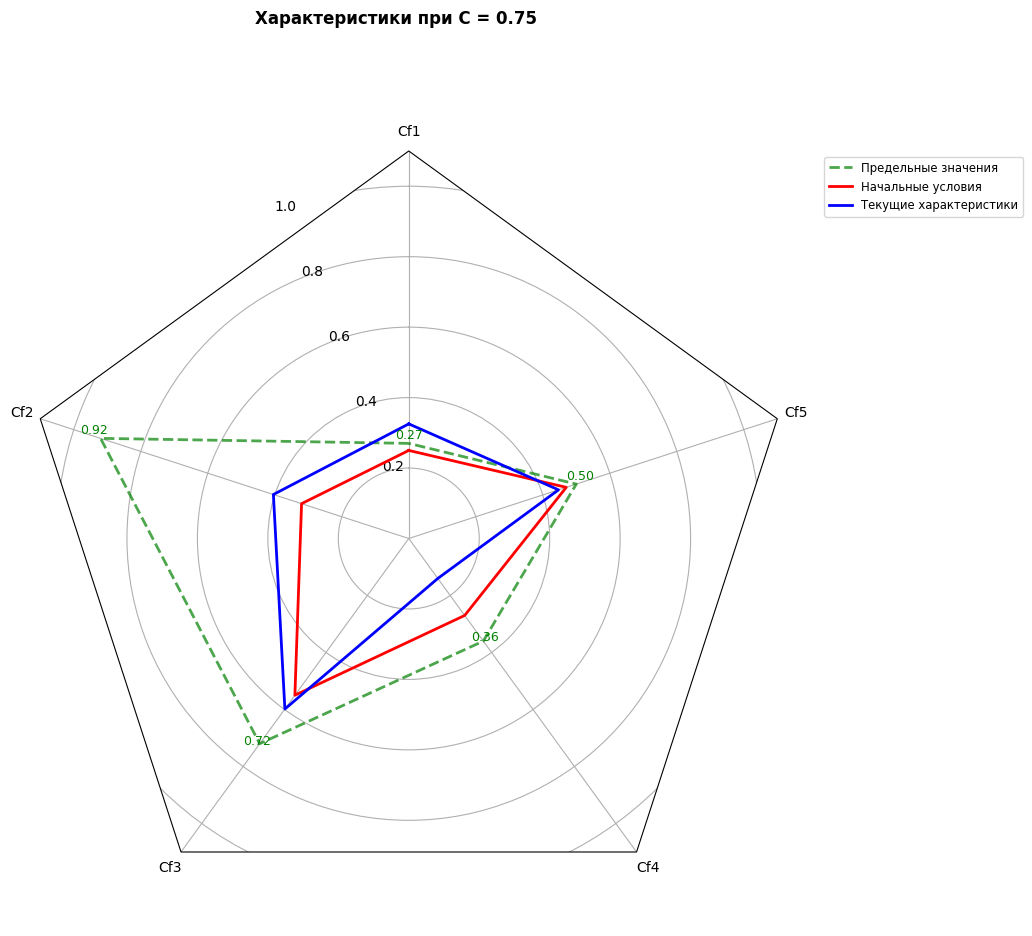
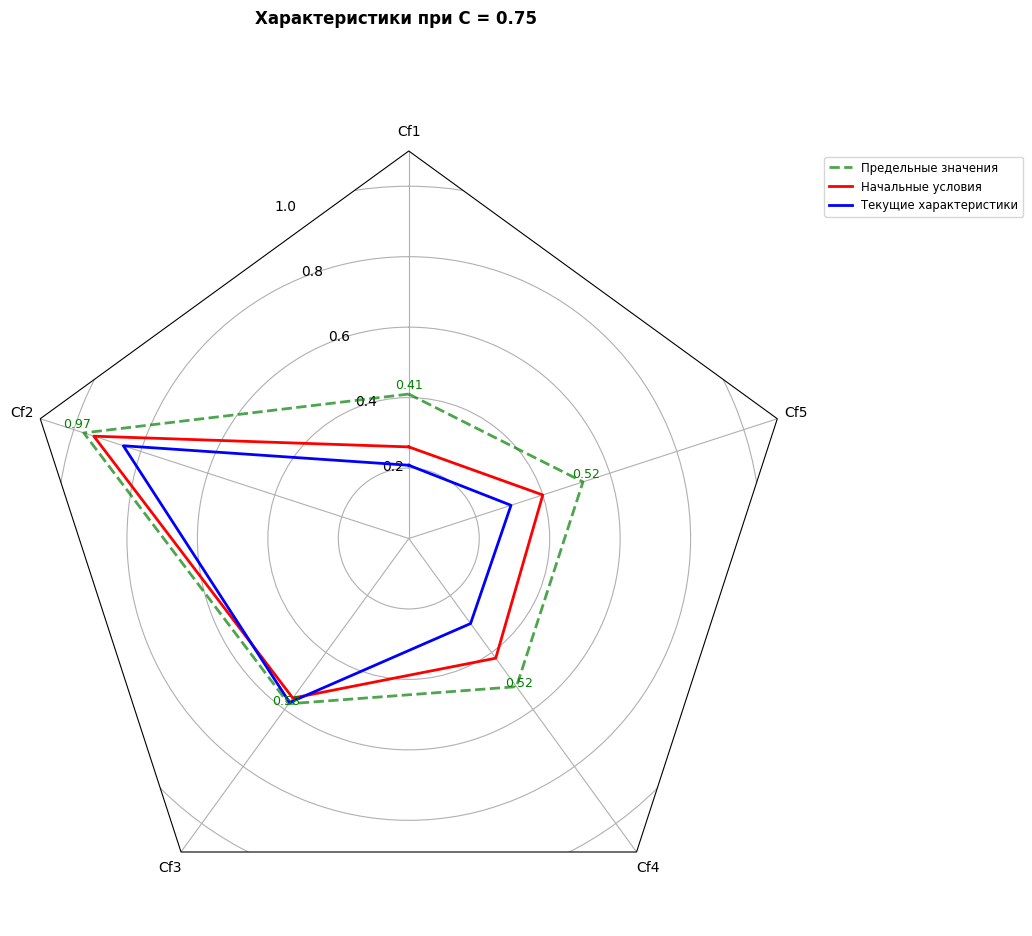
Обновлены функции для уменьшения нормализации графиков

Changed region(s): [[0.062, 0.4028, 0.5891, 0.8056]]

diff --git a/functions.py b/functions.py
@@ -1,19 +1,20 @@
 import numpy as np
-def pend(x, C, faks, f, xm, t=0.0, power=0.55):
+
+def pend(x, C, faks, f, xm, t=0.0, power=0.8):  # Увеличен power для меньшего сжатия
     """
     Система дифференциальных уравнений для модели потерь от загрязнения атмосферы
-    x = [Cf1, Cf2, Cf3, Cf4, Cf5] - характеристики 
-    C - концентрация загрязняющих веществ 
+    x = [Cf1, Cf2, Cf3, Cf4, Cf5] - характеристики
+    C - концентрация загрязняющих веществ
     t - время (для возмущений x1-x6)
-    faks - матрица коэффициентов возмущений [14 x 2] й
+    faks - матрица коэффициентов возмущений [14 x 2]
     f - матрица коэффициентов внутренних функций [12 x ...]
     xm - масштабирующие коэффициенты (максимальные значения/пределы)
-    power - степень для нормализации 
+    power - степень для нормализации (увеличена для меньшего сжатия)
     """
     eps = 1e-4
     x_safe = np.clip(x, eps, 1.0 - eps)
-
-    def normalize_value(value, max_possible=10.0):
+    
+    def normalize_value(value, max_possible=5.0):  # Уменьшен max_possible
         return max(0.0, min(1.0, value / max_possible))
     
     # === ВОЗМУЩЕНИЯ x1-x6 (зависят от времени t) ===
@@ -91,16 +92,15 @@ def pend(x, C, faks, f, xm, t=0.0, power=0.55):
         x14 = 0.0
     
     # === ВНУТРЕННИЕ ФУНКЦИИ ===
- 
     # f₁: логистическая (2 параметра)
     if len(f) > 0 and len(f[0]) >= 2:
-        f1 = f1_cf3_norm(x_safe[2], f[0][0], f[0][1]) 
+        f1 = f1_cf3_norm(x_safe[2], f[0][0], f[0][1])
     else:
         f1 = f1_cf3_default_norm(x_safe[2])
     
     # f₂: линейная (2 параметра)
     if len(f) > 1 and len(f[1]) >= 2:
-        f2 = f2_cf4_norm(x_safe[3], f[1][0], f[1][1]) 
+        f2 = f2_cf4_norm(x_safe[3], f[1][0], f[1][1])
     else:
         f2 = f2_cf4_default_norm(x_safe[3])
     
@@ -112,163 +112,157 @@ def pend(x, C, faks, f, xm, t=0.0, power=0.55):
     
     # f₄: линейная (2 параметра)
     if len(f) > 3 and len(f[3]) >= 2:
-        f4 = f4_cf3_norm(x_safe[2], f[3][0], f[3][1]) 
+        f4 = f4_cf3_norm(x_safe[2], f[3][0], f[3][1])
     else:
         f4 = f4_cf3_default_norm(x_safe[2])
     
     # f₅: линейная (2 параметра)
     if len(f) > 4 and len(f[4]) >= 2:
-        f5 = f5_cf4_norm(x_safe[3], f[4][0], f[4][1]) 
+        f5 = f5_cf4_norm(x_safe[3], f[4][0], f[4][1])
     else:
         f5 = f5_cf4_default_norm(x_safe[3])
     
     # f₆: дробная (2 параметра)
     if len(f) > 5 and len(f[5]) >= 2:
-        f6 = f6_cf5_norm(x_safe[4], f[5][0], f[5][1]) 
+        f6 = f6_cf5_norm(x_safe[4], f[5][0], f[5][1])
     else:
         f6 = f6_cf5_default_norm(x_safe[4])
     
     # f₇: дробная (2 параметра)
     if len(f) > 6 and len(f[6]) >= 2:
-        f7 = f7_cf5_norm(x_safe[4], f[6][0], f[6][1])  
+        f7 = f7_cf5_norm(x_safe[4], f[6][0], f[6][1])
     else:
         f7 = f7_cf5_default_norm(x_safe[4])
     
     # f₈: линейная (2 параметра)
     if len(f) > 7 and len(f[7]) >= 2:
-        f8 = f8_cf1_norm(x_safe[0], f[7][0], f[7][1]) 
+        f8 = f8_cf1_norm(x_safe[0], f[7][0], f[7][1])
     else:
         f8 = f8_cf1_default_norm(x_safe[0])
     
-    # f₉: логистическая 
+    # f₉: логистическая
     if len(f) > 8 and len(f[8]) >= 2:
-        f9 = f9_cf2_norm(x_safe[1], f[8][0], f[8][1]) 
+        f9 = f9_cf2_norm(x_safe[1], f[8][0], f[8][1])
     else:
         f9 = f9_cf2_default_norm(x_safe[1])
     
     # f₁₀: линейная (2 параметра)
     if len(f) > 9 and len(f[9]) >= 2:
-        f10 = f10_cf3_norm(x_safe[2], f[9][0], f[9][1])  
+        f10 = f10_cf3_norm(x_safe[2], f[9][0], f[9][1])
     else:
         f10 = f10_cf3_default_norm(x_safe[2])
     
     # f₁₁: дробная (3 параметра)
     if len(f) > 10 and len(f[10]) >= 3:
-        f11 = f11_cf5_norm(x_safe[4], f[10][0], f[10][1], f[10][2]) 
+        f11 = f11_cf5_norm(x_safe[4], f[10][0], f[10][1], f[10][2])
     else:
         f11 = f11_cf5_default_norm(x_safe[4])
     
     # f₁₂: линейная (2 параметра)
     if len(f) > 11 and len(f[11]) >= 2:
-        f12 = f12_cf1_norm(x_safe[0], f[11][0], f[11][1])  
+        f12 = f12_cf1_norm(x_safe[0], f[11][0], f[11][1])
     else:
         f12 = f12_cf1_default_norm(x_safe[0])
     
     # === СИСТЕМА УРАВНЕНИЙ ===
-    
     # Уравнение 1: dCf1/dC (потери от заболеваемости)
     sum_pos = x1 + x4 + x5 + x7 + x8 + x9 + x10 + x11 + x12 + x13
     sum_neg = x2 + x3 + x6 + x14
     
-    # Enhanced normalization using sigmoid for more natural curves
-    def sigmoid_norm(x, scale=1.0, shift=0.0, steepness=5.0):
-        return 1.0 / (1.0 + np.exp(-steepness * (x - shift))) * scale
+    # Упрощенная нормализация с меньшим сжатием
+    def soft_norm(x, divisor=8.0):  # Уменьшен делитель
+        return min(1.0, (x / divisor) ** power)
     
-    # Apply sigmoid normalization with different parameters for positive and negative terms
-    norm_sum_pos = sigmoid_norm(sum_pos, scale=1.0, shift=3.0, steepness=0.3)
-    norm_sum_neg = sigmoid_norm(sum_neg, scale=1.0, shift=1.5, steepness=0.5)
+    # Применяем более мягкую нормализацию
+    norm_sum_pos = soft_norm(sum_pos, divisor=8.0)  # Было 10.0
+    norm_sum_neg = soft_norm(sum_neg, divisor=4.0)  # Было 4.0 (оставил)
     
     dCf1_dC = (1 / xm[0]) * (
-        f1 * f2 * norm_sum_pos -
-        f3 * norm_sum_neg
+        f1 * f2 * norm_sum_pos - f3 * norm_sum_neg
     )
     
     # Уравнение 2: dCf2/dC (потери сельского хозяйства)
     sum_pos2 = x1 + x4 + x9 + x10 + x12
     sum_neg2 = x2 + x3 + x5 + x6
-    # Apply sigmoid normalization for the second set of terms
-    norm_sum_pos2 = sigmoid_norm(sum_pos2, scale=1.0, shift=2.0, steepness=0.4)
-    norm_sum_neg2 = sigmoid_norm(sum_neg2, scale=1.0, shift=1.5, steepness=0.6)
+    
+    norm_sum_pos2 = soft_norm(sum_pos2, divisor=6.0)  # Уменьшен делитель
+    norm_sum_neg2 = soft_norm(sum_neg2, divisor=4.0)
     
     dCf2_dC = (1 / xm[1]) * (
-        f4 * f5 * norm_sum_pos2 -
-        f6 * norm_sum_neg2
+        f4 * f5 * norm_sum_pos2 - f6 * norm_sum_neg2
     )
     
     # Уравнение 3: dCf3/dC (потери от изменения природы)
     sum_pos3 = x1 + x4 + x5 + x7 + x8 + x9 + x10 + x11 + x12
     sum_neg3 = x2 + x3 + x6 + x14
-    # Apply sigmoid normalization for the third set of terms
-    norm_sum_pos3 = sigmoid_norm(sum_pos3, scale=1.0, shift=3.5, steepness=0.35)
-    norm_sum_neg3 = sigmoid_norm(sum_neg3, scale=1.0, shift=1.5, steepness=0.5)
+    
+    norm_sum_pos3 = soft_norm(sum_pos3, divisor=9.0)  # Уменьшен делитель
+    norm_sum_neg3 = soft_norm(sum_neg3, divisor=4.0)
     
     dCf3_dC = (1 / xm[2]) * (
-        norm_sum_pos3 -
-        f7 * norm_sum_neg3
+        norm_sum_pos3 - f7 * norm_sum_neg3
     )
     
     # Уравнение 4: dCf4/dC (потери от ухудшения качества жизни)
     sum_pos4 = x1 + x4 + x5 + x7 + x8 + x9 + x10 + x11 + x12 + x13
     sum_neg4 = x2 + x3 + x6 + x14
-    norm_sum_pos4 = min(1.0, (sum_pos4 / 10.0) ** power)
-    norm_sum_neg4 = min(1.0, (sum_neg4 / 4.0) ** power)
+    
+    norm_sum_pos4 = soft_norm(sum_pos4, divisor=10.0)  # Уменьшен делитель
+    norm_sum_neg4 = soft_norm(sum_neg4, divisor=4.0)
     
     dCf4_dC = (1 / xm[3]) * (
-        f8 * f9 * f10 * norm_sum_pos4 -
-        f11 * norm_sum_neg4
+        f8 * f9 * f10 * norm_sum_pos4 - f11 * norm_sum_neg4
     )
     
     # Уравнение 5: dCf5/dC (потери предприятия)
     sum_pos5 = x1 + x5
     sum_neg5 = x2 + x3 + x4 + x6 + x7 + x8 + x9 + x10 + x13 + x14
-    norm_sum_pos5 = min(1.0, (sum_pos5 / 2.0) ** power)
-    norm_sum_neg5 = min(1.0, (sum_neg5 / 10.0) ** power)
+    
+    norm_sum_pos5 = soft_norm(sum_pos5, divisor=2.5)  # Уменьшен делитель
+    norm_sum_neg5 = soft_norm(sum_neg5, divisor=12.0)  # Увеличен делитель для негативных
     
     dCf5_dC = (1 / xm[4]) * (
-        f12 * norm_sum_pos5 -
-        norm_sum_neg5
+        f12 * norm_sum_pos5 - norm_sum_neg5
     )
     
     dkdt = [dCf1_dC, dCf2_dC, dCf3_dC, dCf4_dC, dCf5_dC]
     
-
+    # Граничные условия
     for i in range(len(dkdt)):
         if x[i] >= xm[i] - eps and dkdt[i] > 0:
-            dkdt[i] = 0.0 
+            dkdt[i] = 0.0
         elif abs(x[i] - xm[i]) < eps and dkdt[i] > 0:
             dkdt[i] = 0.0
     
-
     for i in range(len(dkdt)):
         if x[i] <= eps and dkdt[i] < 0:
             dkdt[i] = 0.0
         if x[i] >= 1.0 - eps and dkdt[i] > 0:
             dkdt[i] = 0.0
-
+    
     return dkdt
 
 def fx_linear(x, params):
     if len(params) >= 2:
         a, b = params[0], params[1]
         value = a * x + b
-        max_possible = abs(a) * 1.0 + abs(b)
+        # Уменьшена нормализация
+        max_possible = abs(a) * 2.0 + abs(b)  # Увеличен множитель
         if max_possible > 0:
             normalized = max(0.0, min(1.0, value / max_possible))
         else:
             normalized = 0.5
-            
         return normalized
     elif len(params) == 1:
         return max(0.0, min(1.0, params[0]))
     else:
         return 0.5
 
-
-
 # f₁(Cf₃) = a·e^{Cf₃} / (1 + b·(e^{Cf₃} - 1))
 def f1_cf3_norm(cf3, a=0.5, b=0.5):
     raw = a * np.exp(cf3) / (1 + b * (np.exp(cf3) - 1))
-    return max(0.0, min(1.0, raw))
+    # Уменьшена нормализация
+    return max(0.0, min(1.0, raw * 1.2))  # Увеличен множитель
 
 def f1_cf3_default_norm(cf3):
     return f1_cf3_norm(cf3, 0.5, 0.5)
@@ -276,7 +270,7 @@ def f1_cf3_default_norm(cf3):
 # f₂(Cf₄) = a·Cf₄ + b
 def f2_cf4_norm(cf4, a=0.3, b=15.0):
     raw = a * cf4 + b
-    denominator = abs(a) + abs(b)
+    denominator = abs(a) * 2.0 + abs(b)  # Увеличен множитель
     if denominator > 0:
         return max(0.0, min(1.0, raw / denominator))
     return 0.5
@@ -297,7 +291,7 @@ def f3_cf5_default_norm(cf5):
 # f₄(Cf₃) = a·Cf₃ + b
 def f4_cf3_norm(cf3, a=0.7, b=11.0):
     raw = a * cf3 + b
-    denominator = abs(a) + abs(b)
+    denominator = abs(a) * 2.0 + abs(b)  # Увеличен множитель
     if denominator > 0:
         return max(0.0, min(1.0, raw / denominator))
     return 0.5
@@ -308,7 +302,7 @@ def f4_cf3_default_norm(cf3):
 # f₅(Cf₄) = a·Cf₄ + b
 def f5_cf4_norm(cf4, a=0.8, b=9.0):
     raw = a * cf4 + b
-    denominator = abs(a) + abs(b)
+    denominator = abs(a) * 2.0 + abs(b)  # Увеличен множитель
     if denominator > 0:
         return max(0.0, min(1.0, raw / denominator))
     return 0.5
@@ -322,7 +316,7 @@ def f6_cf5_norm(cf5, a=0.8, b=12.0):
     raw = a / denominator
     max_val = a / b if b > 0 else 10.0
     if max_val > 0:
-        return max(0.0, min(1.0, raw / max_val))
+        return max(0.0, min(1.0, raw / max_val * 1.2))  # Увеличен множитель
     return 0.5
 
 def f6_cf5_default_norm(cf5):
@@ -334,7 +328,7 @@ def f7_cf5_norm(cf5, a=0.8, b=11.0):
     raw = a / denominator
     max_val = a / b if b > 0 else 10.0
     if max_val > 0:
-        return max(0.0, min(1.0, raw / max_val))
+        return max(0.0, min(1.0, raw / max_val * 1.2))  # Увеличен множитель
     return 0.5
 
 def f7_cf5_default_norm(cf5):
@@ -343,7 +337,7 @@ def f7_cf5_default_norm(cf5):
 # f₈(Cf₁) = a·Cf₁ + b
 def f8_cf1_norm(cf1, a=0.7, b=13.0):
     raw = a * cf1 + b
-    denominator = abs(a) + abs(b)
+    denominator = abs(a) * 2.0 + abs(b)  # Увеличен множитель
     if denominator > 0:
         return max(0.0, min(1.0, raw / denominator))
     return 0.5
@@ -352,18 +346,18 @@ def f8_cf1_default_norm(cf1):
     return f8_cf1_norm(cf1, 0.7, 13.0)
 
 # f₉(Cf₂) = 1 / (1 + e^{-Cf₂})
-def f9_cf2_norm(cf2, scale=10.0, shift=5.0):
+def f9_cf2_norm(cf2, scale=8.0, shift=4.0):  # Уменьшены параметры
     scaled_cf2 = cf2 * scale - shift
     raw = 1 / (1 + np.exp(-scaled_cf2))
     return max(0.0, min(1.0, raw))
 
 def f9_cf2_default_norm(cf2):
-    return f9_cf2_norm(cf2, 10.0, 5.0)
+    return f9_cf2_norm(cf2, 8.0, 4.0)  # Уменьшены параметры
 
 # f₁₀(Cf₃) = a·Cf₃ + b
 def f10_cf3_norm(cf3, a=0.55, b=13.0):
     raw = a * cf3 + b
-    denominator = abs(a) + abs(b)
+    denominator = abs(a) * 2.0 + abs(b)  # Увеличен множитель
     if denominator > 0:
         return max(0.0, min(1.0, raw / denominator))
     return 0.5
@@ -377,7 +371,7 @@ def f11_cf5_norm(cf5, a=0.55, b=12.0, c=2.0):
     raw = a / denominator + c
     max_val = (a / b + c) if b > 0 else (a / 0.01 + c)
     if max_val > 0:
-        return max(0.0, min(1.0, raw / max_val))
+        return max(0.0, min(1.0, raw / max_val * 1.1))  # Увеличен множитель
     return 0.5
 
 def f11_cf5_default_norm(cf5):
@@ -386,15 +380,13 @@ def f11_cf5_default_norm(cf5):
 # f₁₂(Cf₁) = a·Cf₁ + b
 def f12_cf1_norm(cf1, a=0.5, b=3.0):
     raw = a * cf1 + b
-    denominator = abs(a) + abs(b)
+    denominator = abs(a) * 2.0 + abs(b)  # Увеличен множитель
     if denominator > 0:
         return max(0.0, min(1.0, raw / denominator))
     return 0.5
 
 def f12_cf1_default_norm(cf1):
     return f12_cf1_norm(cf1, 0.5, 3.0)
-
-
 
 def calculate_total_loss(Cf_values, weights=None):
     """
@@ -411,9 +403,7 @@ def calculate_total_loss(Cf_values, weights=None):
     
     return max(0.0, min(1.0, total_loss))
 
-
 def normalize_values(values, max_values=None):
-  
     if max_values is None:
         max_values = [1.0] * len(values)
     
@@ -423,9 +413,7 @@ def normalize_values(values, max_values=None):
             norm_val = values[i] / max_values[i]
         else:
             norm_val = values[i]
-        
         norm_val = max(0.0, min(1.0, norm_val))
         normalized.append(norm_val)
     
     return normalized
-

diff --git a/process_ecology.py b/process_ecology.py
@@ -210,9 +210,19 @@ def process(initial_equations, faks, equations, restrictions, time_value=0.0):
     xm = [1.0, 1.0, 1.0, 1.0, 1.0] 
 
     data_sol = odeint(pend, initial_equations, C, args=(faks, equations, xm, time_value))
-    
-  
-    data_sol = np.clip(data_sol, 0.0, 1.0) 
+
+
+    data_sol_raw = data_sol
+
+    data_sol_display = np.clip(data_sol_raw, 0.0, 1.0)
+
+
+    create_graphic(C, data_sol_display)
+    create_disturbances_graphic(C, faks, time_value)
+    fill_diagrams(data_sol_display, initial_equations, restrictions)
+
+
+    data_sol = data_sol_raw
     create_graphic(C, data_sol)
     create_disturbances_graphic(C, faks, time_value)  
     fill_diagrams(data_sol, initial_equations, restrictions)
